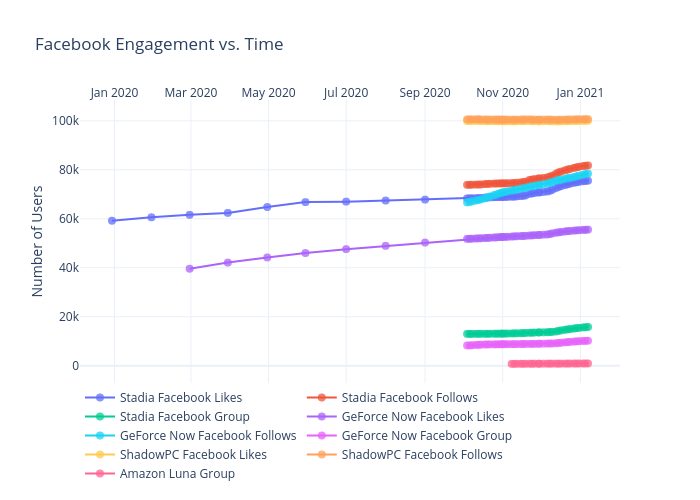
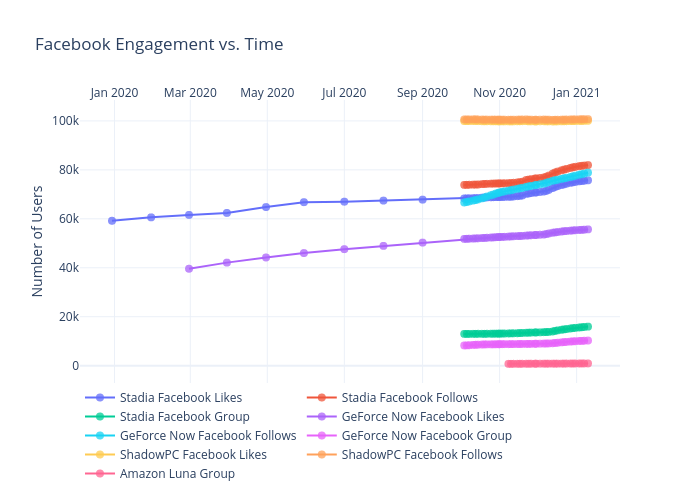
Add files via upload

diff --git a/facebook/figure.js b/facebook/figure.js
@@ -143,7 +143,8 @@ var figure = {
                 "75086",
                 "75318",
                 "75447",
-                "75555"
+                "75555",
+                "75724"
             ],
             "marker": {
                 "size": 8,
@@ -296,7 +297,8 @@ var figure = {
                 "81243",
                 "81506",
                 "81643",
-                "81762"
+                "81762",
+                "81945"
             ],
             "marker": {
                 "size": 8,
@@ -449,7 +451,8 @@ var figure = {
                 "15449",
                 "15599",
                 "15697",
-                "15810"
+                "15810",
+                "15954"
             ],
             "marker": {
                 "size": 8,
@@ -602,7 +605,8 @@ var figure = {
                 "55336",
                 "55433",
                 "55485",
-                "55561"
+                "55561",
+                "55677"
             ],
             "marker": {
                 "size": 8,
@@ -755,7 +759,8 @@ var figure = {
                 "77640",
                 "78021",
                 "78211",
-                "78462"
+                "78462",
+                "78878"
             ],
             "marker": {
                 "size": 8,
@@ -908,7 +913,8 @@ var figure = {
                 "9983",
                 "10088",
                 "10133",
-                "10187"
+                "10187",
+                "10266"
             ],
             "marker": {
                 "size": 8,
@@ -1061,7 +1067,8 @@ var figure = {
                 "99949",
                 "99973",
                 "99987",
-                "100012"
+                "100012",
+                "100046"
             ],
             "marker": {
                 "size": 8,
@@ -1214,7 +1221,8 @@ var figure = {
                 "100624",
                 "100648",
                 "100662",
-                "100687"
+                "100687",
+                "100720"
             ],
             "marker": {
                 "size": 8,
@@ -1367,7 +1375,8 @@ var figure = {
                 "880",
                 "891",
                 "897",
-                "899"
+                "899",
+                "906"
             ],
             "marker": {
                 "size": 8,
@@ -1386,8 +1395,8 @@ var figure = {
             "side": "top",
             "type": "date",
             "range": [
-                "2019-12-06 21:01:07.0807",
-                "2021-01-30 02:58:52.9193"
+                "2019-12-06 16:34:00.8809",
+                "2021-02-02 07:25:59.1191"
             ],
             "title": {
                 "text": ""
@@ -1397,8 +1406,8 @@ var figure = {
         "yaxis": {
             "type": "linear",
             "range": [
-                -6409.261877339477,
-                107838.26187733948
+                -6411.623092427298,
+                107873.6230924273
             ],
             "title": {
                 "text": "Number of Users"
